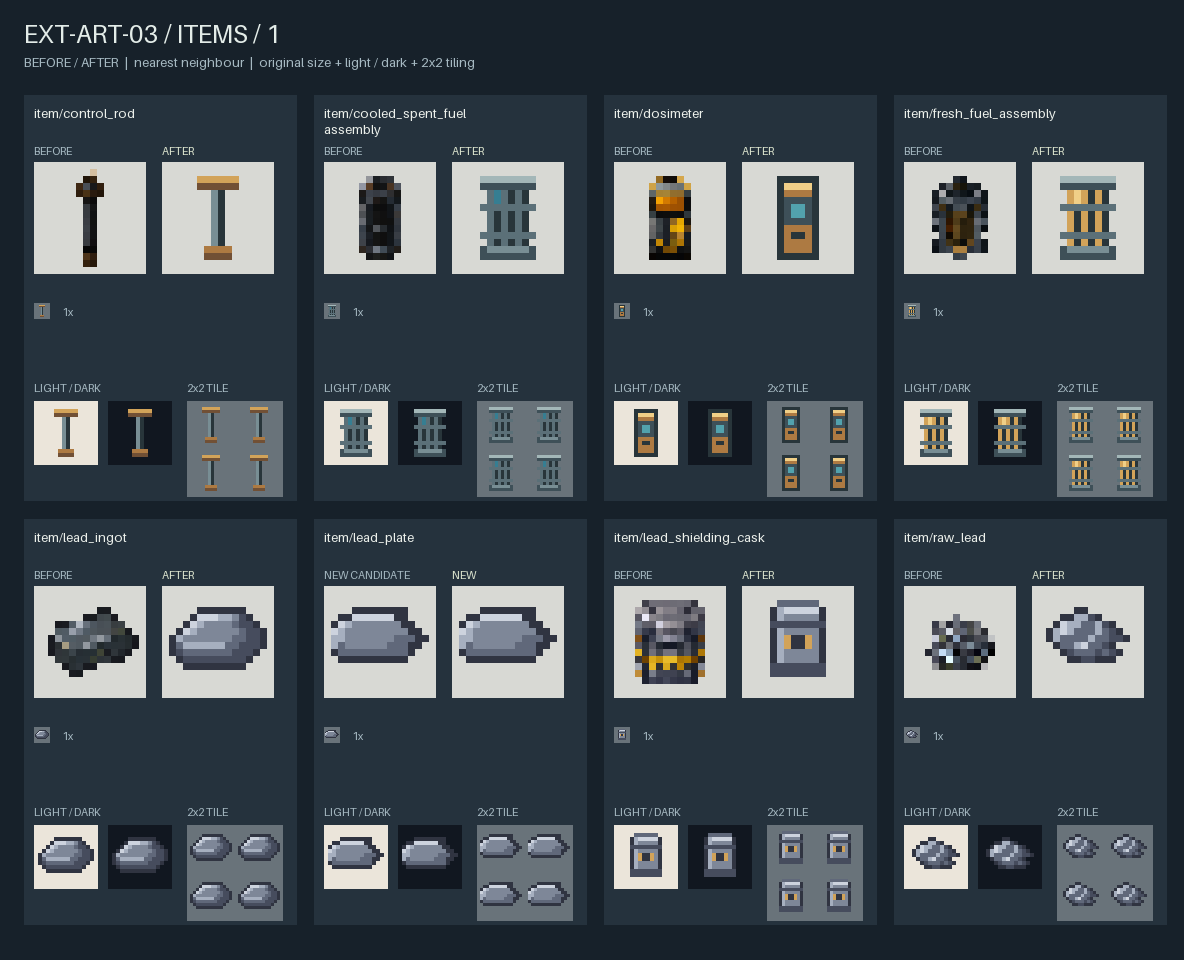
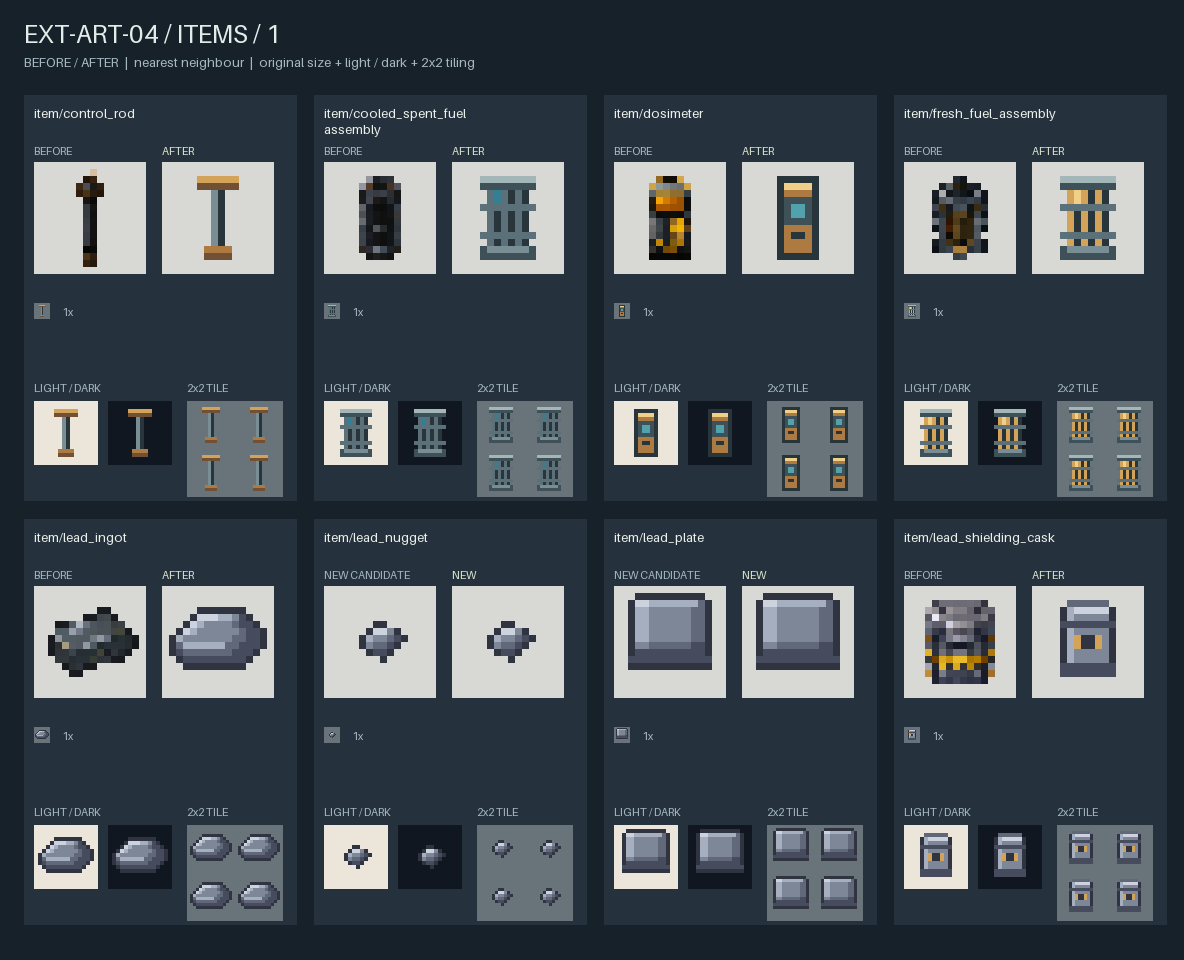
调整铅锡板材轮廓并补充金属粒像素素材

diff --git a/tools/art-assets/preview.html b/tools/art-assets/preview.html
@@ -1,1 +1,1 @@
-<!doctype html><html lang="zh-CN"><meta charset="utf-8"><title>EXT-ART-03 贴图预览</title><style>body{background:#17212a;color:#e3ece8;font:16px system-ui;margin:24px}figure{margin:24px 0}img{max-width:100%;height:auto;image-rendering:pixelated}figcaption{margin-top:8px}</style><h1>EXT-ART-03 贴图预览</h1><p>包含原51条游戏路径、铅板和锡板两条新增路径，以及青金石粉工具候选。新增板材标记为 NEW，不登记或伪造旧基线。旧冷却剂仍按 EXT-ART-02A 保留原图。每页含原尺寸、明暗底与平铺；Minecraft 客户端视觉验收待用户完成。</p><figure><img src="previews/minerals-1.png" alt="previews/minerals-1.png"><figcaption>previews/minerals-1.png</figcaption></figure><figure><img src="previews/minerals-2.png" alt="previews/minerals-2.png"><figcaption>previews/minerals-2.png</figcaption></figure><figure><img src="previews/reactor-1.png" alt="previews/reactor-1.png"><figcaption>previews/reactor-1.png</figcaption></figure><figure><img src="previews/reactor-2.png" alt="previews/reactor-2.png"><figcaption>previews/reactor-2.png</figcaption></figure><figure><img src="previews/reactor-3.png" alt="previews/reactor-3.png"><figcaption>previews/reactor-3.png</figcaption></figure><figure><img src="previews/items-1.png" alt="previews/items-1.png"><figcaption>previews/items-1.png</figcaption></figure><figure><img src="previews/items-2.png" alt="previews/items-2.png"><figcaption>previews/items-2.png</figcaption></figure><figure><img src="previews/coolant-1.png" alt="previews/coolant-1.png"><figcaption>previews/coolant-1.png</figcaption></figure></html>
+<!doctype html><html lang="zh-CN"><meta charset="utf-8"><title>EXT-ART-04 贴图预览</title><style>body{background:#17212a;color:#e3ece8;font:16px system-ui;margin:24px}figure{margin:24px 0}img{max-width:100%;height:auto;image-rendering:pixelated}figcaption{margin-top:8px}</style><h1>EXT-ART-04 贴图预览</h1><p>包含原51条游戏路径、铅板和锡板两条已新增路径、本次新增的铅粒和锡粒，以及青金石粉工具候选。新增素材标记为 NEW，不登记或伪造旧基线。旧冷却剂仍按 EXT-ART-02A 保留原图。每页含原尺寸、明暗底与平铺；Minecraft 客户端视觉验收待用户完成。</p><figure><img src="previews/minerals-1.png" alt="previews/minerals-1.png"><figcaption>previews/minerals-1.png</figcaption></figure><figure><img src="previews/minerals-2.png" alt="previews/minerals-2.png"><figcaption>previews/minerals-2.png</figcaption></figure><figure><img src="previews/reactor-1.png" alt="previews/reactor-1.png"><figcaption>previews/reactor-1.png</figcaption></figure><figure><img src="previews/reactor-2.png" alt="previews/reactor-2.png"><figcaption>previews/reactor-2.png</figcaption></figure><figure><img src="previews/reactor-3.png" alt="previews/reactor-3.png"><figcaption>previews/reactor-3.png</figcaption></figure><figure><img src="previews/items-1.png" alt="previews/items-1.png"><figcaption>previews/items-1.png</figcaption></figure><figure><img src="previews/items-2.png" alt="previews/items-2.png"><figcaption>previews/items-2.png</figcaption></figure><figure><img src="previews/items-3.png" alt="previews/items-3.png"><figcaption>previews/items-3.png</figcaption></figure><figure><img src="previews/coolant-1.png" alt="previews/coolant-1.png"><figcaption>previews/coolant-1.png</figcaption></figure></html>

diff --git a/tools/art-assets/pipeline.py b/tools/art-assets/pipeline.py
@@ -1,6 +1,6 @@
-"""EXT-ART-02 固定白名单管线及EXT-ART-03板材扩展，先验证全部输入再接入游戏。
+"""EXT-ART-02 固定白名单管线及EXT-ART-04粒素材扩展，先验证全部输入再接入游戏。
 
-无游戏逻辑、注册、模型或动画修改。清单仅允许基线 51 PNG、两张新增板材和一个工具候选；
+无游戏逻辑、注册、模型或动画修改。清单仅允许基线 51 PNG、两张板材、两种金属粒和一个工具候选；
 保留完整 flow 画布；EXT-ART-02A 的八项冷却剂按各自原始 PNG 保留。
 """
 import argparse
@@ -66,7 +66,7 @@ item/raw_uranium.png
 item/steel_plate.png
 item/tin_ingot.png
 item/uranium_concentrate.png'''.splitlines())
-NEW_GAME_FILES = frozenset({'item/lead_plate.png', 'item/tin_plate.png'})
+NEW_GAME_FILES = frozenset({'item/lead_plate.png', 'item/tin_plate.png', 'item/lead_nugget.png', 'item/tin_nugget.png'})
 ALLOWED_GAME_FILES = GAME_FILES | NEW_GAME_FILES
 
 # 用户批准的原始 PNG 例外，路径与哈希均冻结；不能借 manifest 导入任意位图。
@@ -89,11 +89,11 @@ def load_manifest():
     if set(document)!={'schema','entries'} or document['schema']!=1:
         raise ValueError('manifest 版本或字段错误')
     entries=document['entries']
-    if not isinstance(entries,list) or len(entries)!=54:
-        raise ValueError('清单必须恰好为53个游戏路径加lapis候选')
+    if not isinstance(entries,list) or len(entries)!=56:
+        raise ValueError('清单必须恰好为55个游戏路径加lapis候选')
     games=[e.get('game') for e in entries if isinstance(e,dict) and e.get('game') is not None]
-    if len(games)!=53 or len(set(games))!=53 or set(games)!=ALLOWED_GAME_FILES:
-        raise ValueError('游戏路径必须与固定51项白名单及两张板材扩展完全一致')
+    if len(games)!=55 or len(set(games))!=55 or set(games)!=ALLOWED_GAME_FILES:
+        raise ValueError('游戏路径必须与固定51项白名单及两张板材、金属粒扩展完全一致')
     if sum(e.get('game') is None for e in entries)!=1:
         raise ValueError('只能有一个工具候选')
     for e in entries:
@@ -182,7 +182,7 @@ def previews(entries,images,before):
         for page in range((len(items)+7)//8):
             selected=items[page*8:page*8+8]
             sheet=Image.new('RGBA',(1184,960),'#17212A');draw=ImageDraw.Draw(sheet)
-            draw.text((24,18),f'EXT-ART-03 / {group.upper()} / {page+1}',font=ImageFont.load_default(size=25),fill='#E3ECE8')
+            draw.text((24,18),f'EXT-ART-04 / {group.upper()} / {page+1}',font=ImageFont.load_default(size=25),fill='#E3ECE8')
             draw.text((24,54),'BEFORE / AFTER  |  nearest neighbour  |  original size + light / dark + 2x2 tiling',font=font,fill='#A6B9C2')
             for i,e in enumerate(selected):
                 x=24+(i%4)*290;y=95+(i//4)*424;key=e['game'] or 'item/lapis_dust.png';im=images[key];old=before.get(key,im)
@@ -207,8 +207,8 @@ def previews(entries,images,before):
             name=f'previews/{group}-{page+1}.png';outputs[name]=png_bytes(sheet);names.append(name)
     links=''.join(f'<figure><img src="{name}" alt="{name}"><figcaption>{name}</figcaption></figure>' for name in names)
     overview=Image.new('RGBA',(1184,1010),'#17212A');od=ImageDraw.Draw(overview)
-    od.text((24,18),'EXT-ART-03 / 53 GAME TEXTURES + LAPIS PILOT',font=ImageFont.load_default(size=22),fill='#E3ECE8')
-    od.text((24,52),'51 historical paths + 2 explicitly new plate paths / client review pending',font=font,fill='#A6B9C2')
+    od.text((24,18),'EXT-ART-04 / 55 GAME TEXTURES + LAPIS PILOT',font=ImageFont.load_default(size=22),fill='#E3ECE8')
+    od.text((24,52),'51 historical paths + 2 plates + 2 nuggets / client review pending',font=font,fill='#A6B9C2')
     for i,e in enumerate(entries):
         x=24+(i%8)*145;y=95+(i//8)*130;key=e['game'] or 'item/lapis_dust.png';im=images[key]
         image_on(overview,im,x,y,1 if im.height==64 else 4,'#596773')
@@ -218,13 +218,13 @@ def previews(entries,images,before):
         for j,line in enumerate(lines):od.text((x,y+72+j*13),line,font=small,fill='#E3ECE8')
         od.text((x,y+102),key.split('/')[0],font=small,fill='#A6B9C2')
     outputs['preview.png']=png_bytes(overview)
-    outputs['preview.html']=('''<!doctype html><html lang="zh-CN"><meta charset="utf-8"><title>EXT-ART-03 贴图预览</title><style>body{background:#17212a;color:#e3ece8;font:16px system-ui;margin:24px}figure{margin:24px 0}img{max-width:100%;height:auto;image-rendering:pixelated}figcaption{margin-top:8px}</style><h1>EXT-ART-03 贴图预览</h1><p>包含原51条游戏路径、铅板和锡板两条新增路径，以及青金石粉工具候选。新增板材标记为 NEW，不登记或伪造旧基线。旧冷却剂仍按 EXT-ART-02A 保留原图。每页含原尺寸、明暗底与平铺；Minecraft 客户端视觉验收待用户完成。</p>'''+links+'</html>\n').encode('utf-8')
+    outputs['preview.html']=('''<!doctype html><html lang="zh-CN"><meta charset="utf-8"><title>EXT-ART-04 贴图预览</title><style>body{background:#17212a;color:#e3ece8;font:16px system-ui;margin:24px}figure{margin:24px 0}img{max-width:100%;height:auto;image-rendering:pixelated}figcaption{margin-top:8px}</style><h1>EXT-ART-04 贴图预览</h1><p>包含原51条游戏路径、铅板和锡板两条已新增路径、本次新增的铅粒和锡粒，以及青金石粉工具候选。新增素材标记为 NEW，不登记或伪造旧基线。旧冷却剂仍按 EXT-ART-02A 保留原图。每页含原尺寸、明暗底与平铺；Minecraft 客户端视觉验收待用户完成。</p>'''+links+'</html>\n').encode('utf-8')
     return outputs
 
 
 def main():
-    parser=argparse.ArgumentParser(description='固定51项白名单及两条板材新增路径；默认不接入游戏')
-    parser.add_argument('--install',action='store_true',help='显式接入51张既有贴图并添加两张板材PNG')
+    parser=argparse.ArgumentParser(description='固定51项历史白名单及四条明确新增路径；默认不接入游戏')
+    parser.add_argument('--install',action='store_true',help='显式接入51张既有贴图并添加板材、金属粒PNG')
     args=parser.parse_args()
     entries,images,before,retained=prepare()
     outputs={f'generated/{key}':retained[key] if key in retained else png_bytes(im) for key,im in images.items()}
@@ -232,8 +232,9 @@ def main():
     game_outputs={e['game']:outputs['generated/'+e['game']] for e in entries if e['game']}
     if args.install:
         actual={p.relative_to(GAME_ROOT).as_posix() for p in GAME_ROOT.rglob('*.png')}
-        if actual not in (GAME_FILES, ALLOWED_GAME_FILES):
-            raise ValueError('实际游戏PNG集合必须为原51项或完整53项白名单，拒绝接入')
+        staged_new = GAME_FILES | frozenset({'item/lead_plate.png', 'item/tin_plate.png'})
+        if actual not in (GAME_FILES, staged_new, ALLOWED_GAME_FILES):
+            raise ValueError('实际游戏PNG集合必须为原51项、已有板材阶段53项或完整55项白名单，拒绝接入')
         for e in entries:
             if not e['game']:continue
             target=GAME_ROOT/e['game']
@@ -246,7 +247,7 @@ def main():
         path=ROOT/relative;path.parent.mkdir(parents=True,exist_ok=True);path.write_bytes(data)
     if args.install:
         for relative,data in game_outputs.items():(GAME_ROOT/relative).write_bytes(data)
-    print(f'PASS: {len(images)} generated PNG; 53 game targets (51 historical + 2 new); install={args.install}; {len(outputs)-len(images)-2} comparison pages + overview')
+    print(f'PASS: {len(images)} generated PNG; 55 game targets (51 historical + 4 new); install={args.install}; {len(outputs)-len(images)-2} comparison pages + overview')
     print('manifest sha256='+hashlib.sha256((ROOT/'manifest.json').read_bytes()).hexdigest())
 
 

diff --git a/tools/art-assets/verify.py b/tools/art-assets/verify.py
@@ -1,4 +1,4 @@
-"""离线核对历史贴图及EXT-ART-03新增板材：原冷却剂保留、SVG像素、复现性和失败不写出。
+"""离线核对历史贴图及EXT-ART-04新增金属粒：原冷却剂保留、SVG像素、复现性和失败不写出。
 
 只在显式执行本脚本时做临时坏输入实验，finally 原样恢复源稿/清单。
 不调用游戏、Gradle 或 Git 写操作；结果保存在本任务证据目录。
@@ -18,7 +18,7 @@ import pipeline
 from export import render_svg, read_palette, ROOT
 
 REPO=ROOT.parents[1]
-EVIDENCE=REPO/'build/reports/extension/EXT-ART-03'
+EVIDENCE=REPO/'build/reports/extension/EXT-ART-04'
 EVIDENCE.mkdir(parents=True,exist_ok=True)
 ENV=dict(os.environ,PYTHONIOENCODING='utf-8',PYTHONDONTWRITEBYTECODE='1')
 log=[]
@@ -51,9 +51,13 @@ entries,images,before,retained=pipeline.prepare();palette=read_palette()
 baseline=json.loads((ROOT/'baseline.json').read_text(encoding='utf-8'))
 assert {r['game'] for r in baseline['records']}==pipeline.GAME_FILES
 assert len(baseline['records'])==51
-assert len(entries)==54
-assert Counter(tuple(e['size']) for e in entries if e['game'])=={(16,16):49,(16,64):4}
-results={'python':sys.version,'pillow':pillow_version,'baseline':baseline['head'],'historical_game_count':51,'new_game_count':2,'source_count':len({e['source'] for e in entries}),'records':[]}
+assert len(entries)==56
+assert Counter(tuple(e['size']) for e in entries if e['game'])=={(16,16):51,(16,64):4}
+actual_before={p.relative_to(pipeline.GAME_ROOT).as_posix() for p in pipeline.GAME_ROOT.rglob('*.png')}
+staged_game_paths=pipeline.GAME_FILES|frozenset({'item/lead_plate.png','item/tin_plate.png'})
+assert actual_before in (pipeline.GAME_FILES,staged_game_paths,pipeline.ALLOWED_GAME_FILES),'开工时游戏PNG必须是51项历史、53项板材阶段或完整55项白名单'
+pre_existing_hashes={name:digest(pipeline.GAME_ROOT/name) for name in actual_before}
+results={'python':sys.version,'pillow':pillow_version,'baseline':baseline['head'],'historical_game_count':51,'pre_existing_game_count':len(pre_existing_hashes),'new_game_count':4,'final_game_count':55,'manifest_entry_count':56,'source_count':len({e['source'] for e in entries}),'records':[]}
 for e in entries:
     name=e['game'] or 'item/lapis_dust.png'
     if name in RETAINED_COOLANTS:
@@ -155,9 +159,11 @@ for e in entries:
         elif e['game'] in RETAINED_COOLANTS:
             assert (pipeline.GAME_ROOT/e['game']).read_bytes()==(ROOT/'baseline'/e['game']).read_bytes(),'旧冷却剂被再次覆盖'
 assert {name:digest(pipeline.GAME_ROOT/name) for name in pipeline.GAME_FILES}==historical_before,'原51张游戏PNG被改动'
+assert all(digest(pipeline.GAME_ROOT/name)==value for name,value in pre_existing_hashes.items()),'两次安装改动了开工前已有的游戏PNG'
 after=state();run('--install');assert state()==after
 results['install_repeat_exports']=2
 results['historical_51_game_png_unchanged']=True
+results['pre_existing_game_png_unchanged']=True
 results['svg_or_retained_original_generated_game_equal']=True
 results['output_hashes']=after
 results['result']='PASS'
